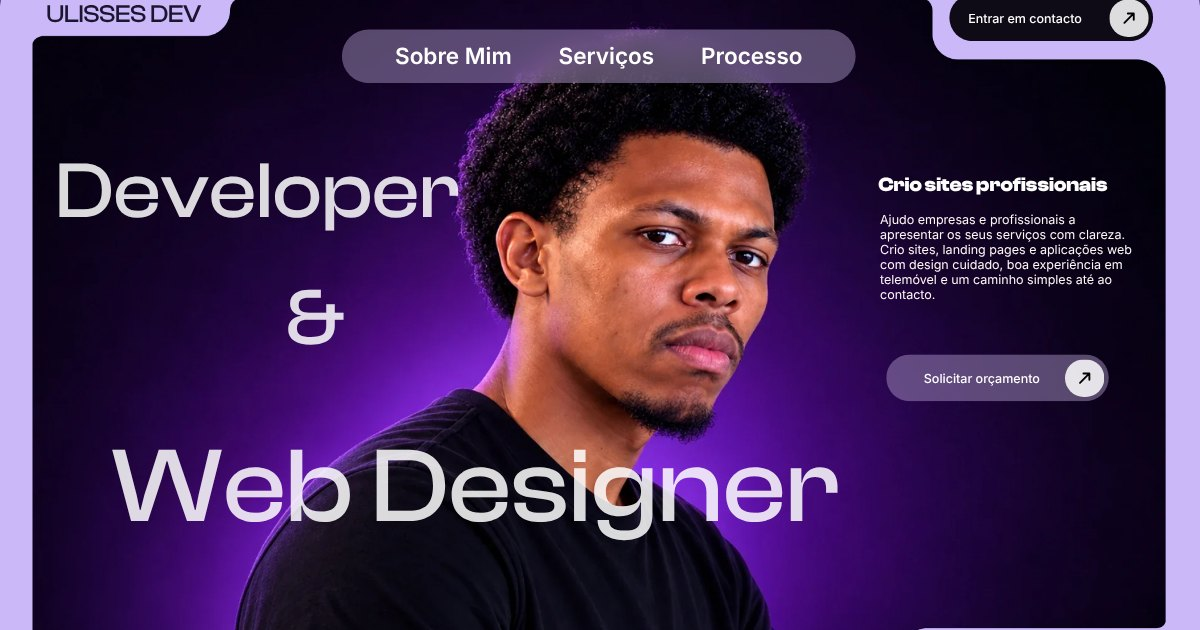
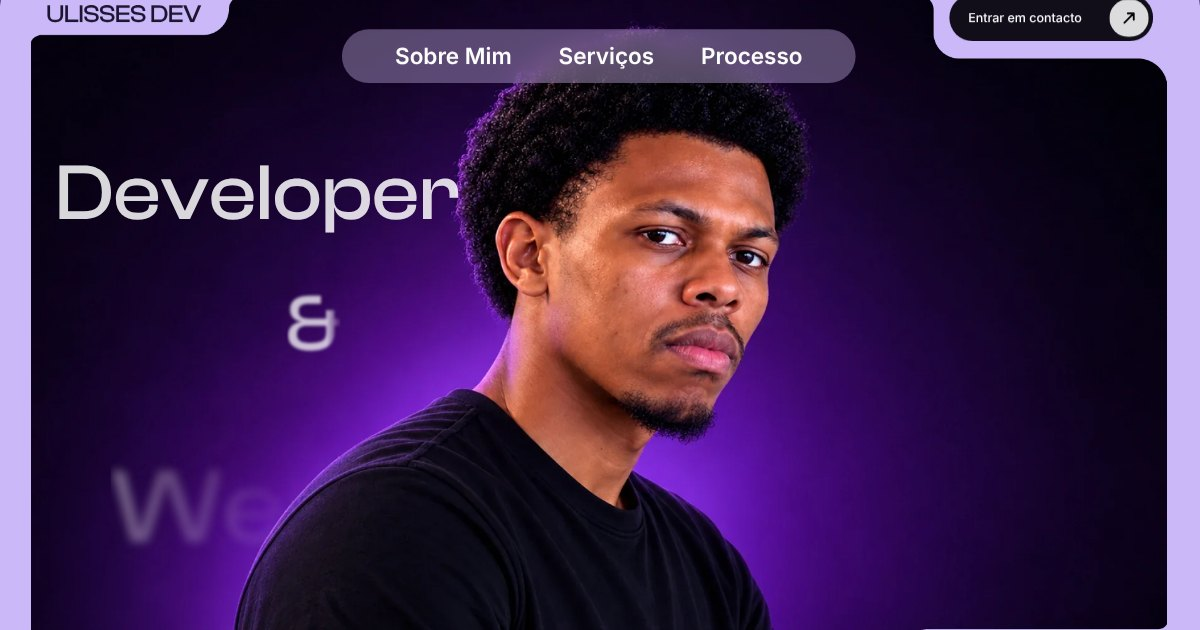
Adiciona a Clash Display Semibold e acerta dois títulos ao Figma
Os títulos a 600 (secções, tabs, "Crio sites profissionais") deixam de
usar a Bold. "Crio sites profissionais" e "O que eu faço" recebem o
letter-spacing e a cor medidos no Figma (412 e 449 px de largura).

Claude-Session: https://claude.ai/code/session_01JRRx7HNQM2D1HoB4iwCRez

diff --git a/src/styles/global.css b/src/styles/global.css
@@ -337,7 +337,9 @@ button {
 .hero__pitch-title {
   font-size: 22px;
   font-weight: 600;
-  color: #fff;
+  /* Espaçamento e cor medidos no Figma: 412 px de largura a 32 px */
+  letter-spacing: 0.073em;
+  color: #e6dced;
 }
 .hero__pitch-text {
   max-width: 52ch;
@@ -651,7 +653,9 @@ button {
 .services__title {
   font-size: clamp(36px, 3.34vw, 64px);
   font-weight: 600;
-  color: #f3ecff;
+  /* 449 px de largura a 64 px no Figma */
+  letter-spacing: 0.041em;
+  color: #fae2ff;
 }
 .services__intro {
   margin: clamp(20px, 3.5vw, 66px) auto 0;

diff --git a/src/styles/fonts-clash.css b/src/styles/fonts-clash.css
@@ -6,8 +6,6 @@
   font-style: normal;
   font-display: swap;
 }
-/* Semibold (600) em falta: até existir ClashDisplay-Semibold.woff2, o browser usa a Bold
-   nos títulos a 600. Quando o ficheiro chegar, descomentar:
 @font-face {
   font-family: 'Clash Display';
   src: url('/fonts/ClashDisplay-Semibold.woff2') format('woff2');
@@ -15,7 +13,6 @@
   font-style: normal;
   font-display: swap;
 }
-*/
 @font-face {
   font-family: 'Clash Display';
   src: url('/fonts/ClashDisplay-Bold.woff2') format('woff2');

diff --git a/README.md b/README.md
@@ -28,16 +28,14 @@ O `capture` usa o Chrome instalado; noutro browser: `CHROME_PATH=/caminho/chrome
 - **Navegação:** Projetos e Depoimentos não aparecem porque não há conteúdo publicável. Ficam “Sobre Mim”, “Serviços” e “Processo”; os outros voltam automaticamente quando houver dados.
 - **Serviços:** abre em *Landing pages* (corrige a incoerência do rascunho). Tabs com setas/Home/End; indicadores sincronizados; “Saber mais” abre um `<dialog>` com ação que leva ao contacto com o interesse pré-selecionado. As ilustrações à esquerda são HTML/CSS, não trabalhos de clientes.
 - **Contacto:** sem email/WhatsApp configurados, o caminho real é “Falar no LinkedIn” + mensagem sugerida copiável. Os botões de email e WhatsApp aparecem sozinhos quando `CONTACT_CONFIG` os tiver.
+- **Tipografia:** Clash Display Medium (500), Semibold (600) e Bold (700), convertidas de OTF para WOFF2, com preload da Medium; Inter 400/500/600 via `@fontsource`. A 1920 px: Developer 647 px (Figma 659, −1,8 %), & 90 px (101), Web Designer 1166 px (1184, −1,5 %), sem ajuste de `letter-spacing`. Nota: `document.fonts.check('500 40px "Clash Display"')` devolve `true` mesmo sem a fonte; o `npm run capture` reporta `clashLoaded`, que verifica faces efetivamente carregadas.
 - **Ícones sociais:** só o Instagram aparece na hero; Facebook e WhatsApp esperam destino.
 
 ## Pendências
 
-1. **Clash Display Semibold (600) em falta.** Estão instaladas a Medium (500) e a Bold (700), convertidas de OTF para WOFF2. Os títulos a 600 (secções, tabs, “Crio sites profissionais”) estão a sair em Bold. Para fechar: converter `ClashDisplay-Semibold.otf` para `public/fonts/ClashDisplay-Semibold.woff2` (ex.: `fonttools ttLib.woff2 compress`), descomentar o `@font-face` em `src/styles/fonts-clash.css` e correr `npm run capture -- --og`.
-   - Larguras a 1920 px com a Medium: Developer 647 px (Figma 659, −1,8 %), & 90 px (101), Web Designer 1166 px (1184, −1,5 %). Sem ajuste de `letter-spacing`.
-   - `document.fonts.check('500 40px "Clash Display"')` devolve `true` mesmo sem a fonte; o `npm run capture` reporta `clashLoaded`, que verifica faces efetivamente carregadas.
-2. **Retrato:** `public/media/hero-ulisses-*.webp` foi gerado a partir de uma cópia WebP (1813 × 1110, com transparência) da composição, não do PNG original de 2,5 MB. Visualmente está bem, mas convém regenerar os dois WebP a partir do PNG original exportado do Figma (nó `163:22`).
-3. **Contactos:** email, WhatsApp e Facebook por configurar em `CONTACT_CONFIG`.
-4. **Projetos:** Elevon.pt está como rascunho (`published: false`): confirmar a descrição da participação (manutenção), tecnologias, URL e imagem antes de publicar.
-5. **Depoimentos:** nenhum; a secção só aparece com testemunhos reais.
-6. **`wordpress.svg`:** o “P” de “WORDPRESS” falta no próprio export do Figma.
-7. **Depois do deploy:** `og:image` com URL absoluto, `og:url` e `<link rel="canonical">` em `index.html`.
+1. **Retrato:** `public/media/hero-ulisses-*.webp` foi gerado a partir de uma cópia WebP (1813 × 1110, com transparência) da composição, não do PNG original de 2,5 MB. Visualmente está bem, mas convém regenerar os dois WebP a partir do PNG original exportado do Figma (nó `163:22`).
+2. **Contactos:** email, WhatsApp e Facebook por configurar em `CONTACT_CONFIG`.
+3. **Projetos:** Elevon.pt está como rascunho (`published: false`): confirmar a descrição da participação (manutenção), tecnologias, URL e imagem antes de publicar.
+4. **Depoimentos:** nenhum; a secção só aparece com testemunhos reais.
+5. **`wordpress.svg`:** o “P” de “WORDPRESS” falta no próprio export do Figma.
+6. **Depois do deploy:** `og:image` com URL absoluto, `og:url` e `<link rel="canonical">` em `index.html`.
